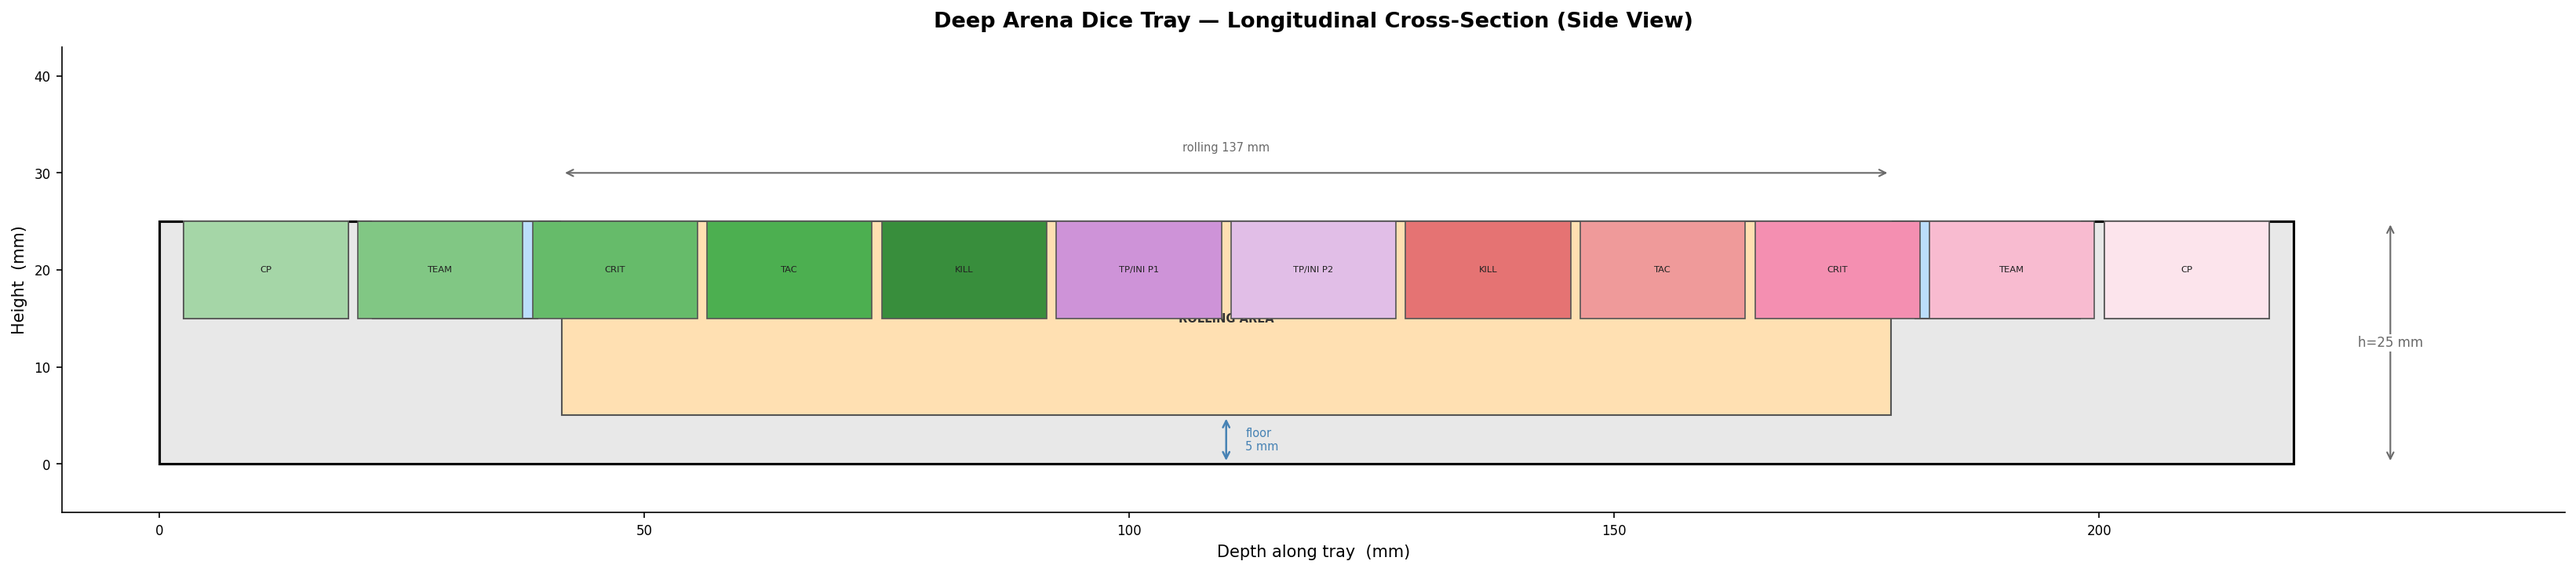
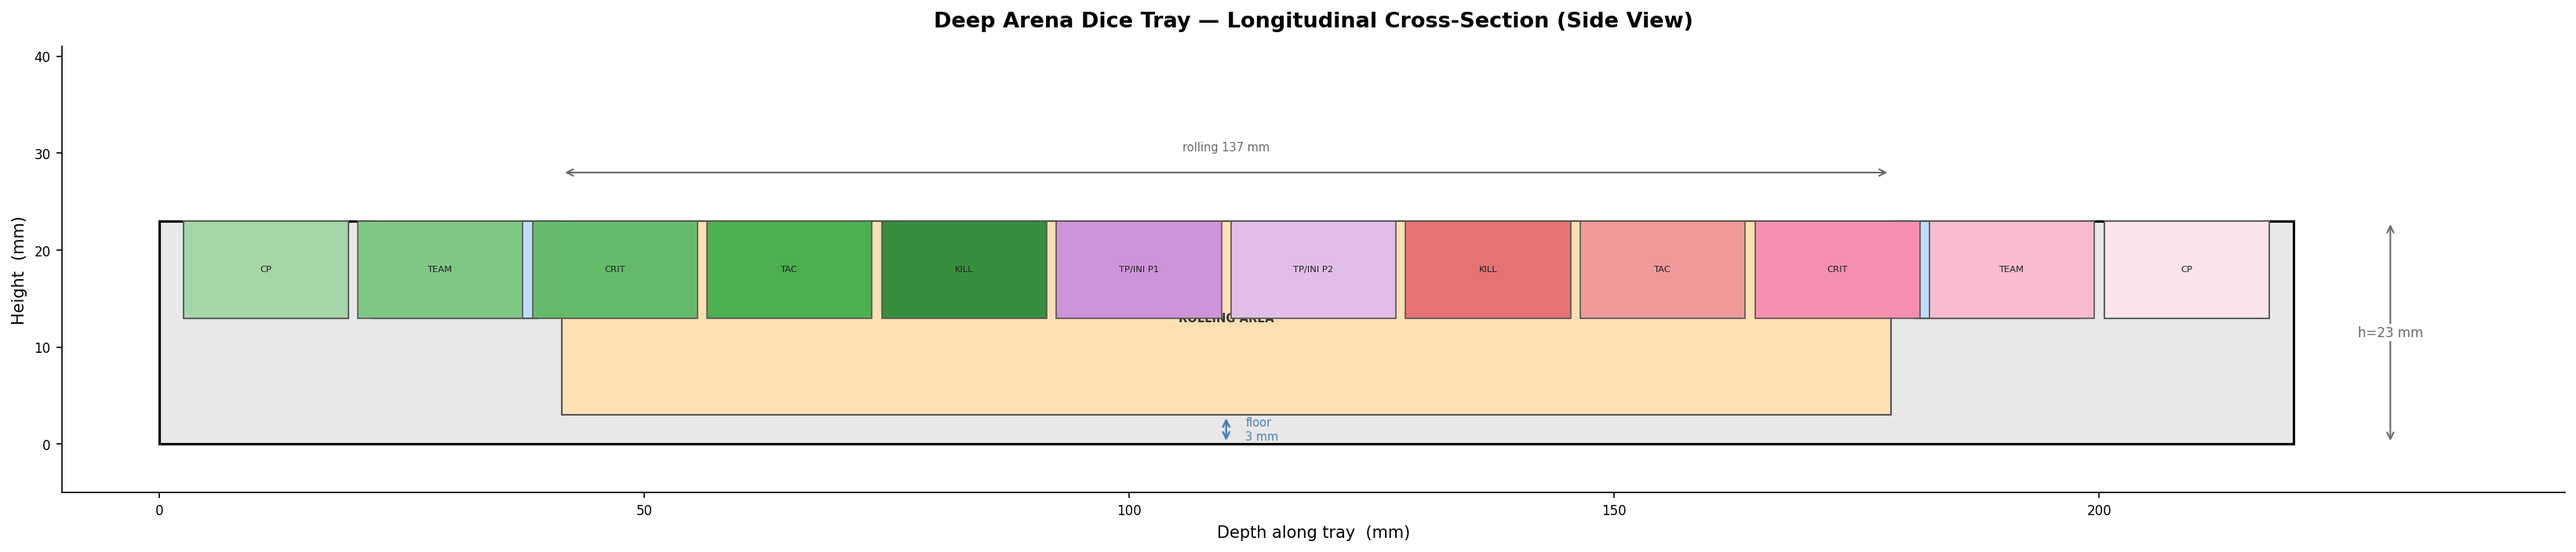
Reduce tray height to 23mm for material optimization
- base_h: 25mm → 23mm (saves 2mm material)
- Floor thickness under rolling cut: 5mm → 3mm
- 3mm floor is adequate for structural integrity in 3D prints
- Reduces print time and material usage proportionally
- Updated diagram generator to read base_h from macro
- All structural integrity maintained for rolling dice area
- Regenerated diagrams with new height

diff --git a/wargaming/KT-dice-tray/generate_diagrams.py b/wargaming/KT-dice-tray/generate_diagrams.py
@@ -34,7 +34,7 @@ slot_d     = 18.0
 roll_d     = 100.0
 slot_cut_h = 10.0
 roll_cut_h = 20.0
-base_h     = 25.0
+base_h     = 23.0
 
 # ── Read optional overrides from the macro in the target folder ───────────────
 label_ledge   = 0.0
@@ -58,6 +58,7 @@ if os.path.exists(macro_path):
         for _line in _f:
             for _pat, _key in [
                 (r"wall\s*=\s*([0-9.]+)",           "wall"),
+                (r"base_h\s*=\s*([0-9.]+)",         "base_h"),
                 (r"label_ledge\s*=\s*([0-9.]+)",   "label_ledge"),
                 (r"score_label_zone\s*=\s*([0-9.]+)",   "score_label_zone"),
                 (r"score_label_ledge\s*=\s*([0-9.]+)",   "score_label_ledge"),

diff --git a/wargaming/KT-dice-tray/v3-score-tracker/deep_arena_dice_tray.py b/wargaming/KT-dice-tray/v3-score-tracker/deep_arena_dice_tray.py
@@ -18,7 +18,7 @@ n_dice      = 4       # Dice per crits/normals tray
 # Section Y-depths
 slot_d      = 17.0    # Y-depth of each normals/crits tray (16mm dice + 0.5mm clearance each side)
 roll_cut_h  = 20.0    # Deep rolling arena cut depth
-base_h      = 25.0    # Total tray height (5mm floor under rolling cut)
+base_h      = 23.0    # Total tray height (3mm floor under rolling cut, optimized for material savings)
 
 # Cut heights (Z, downward from top)
 slot_cut_h  = 10.0    # Normals/crits die slots
